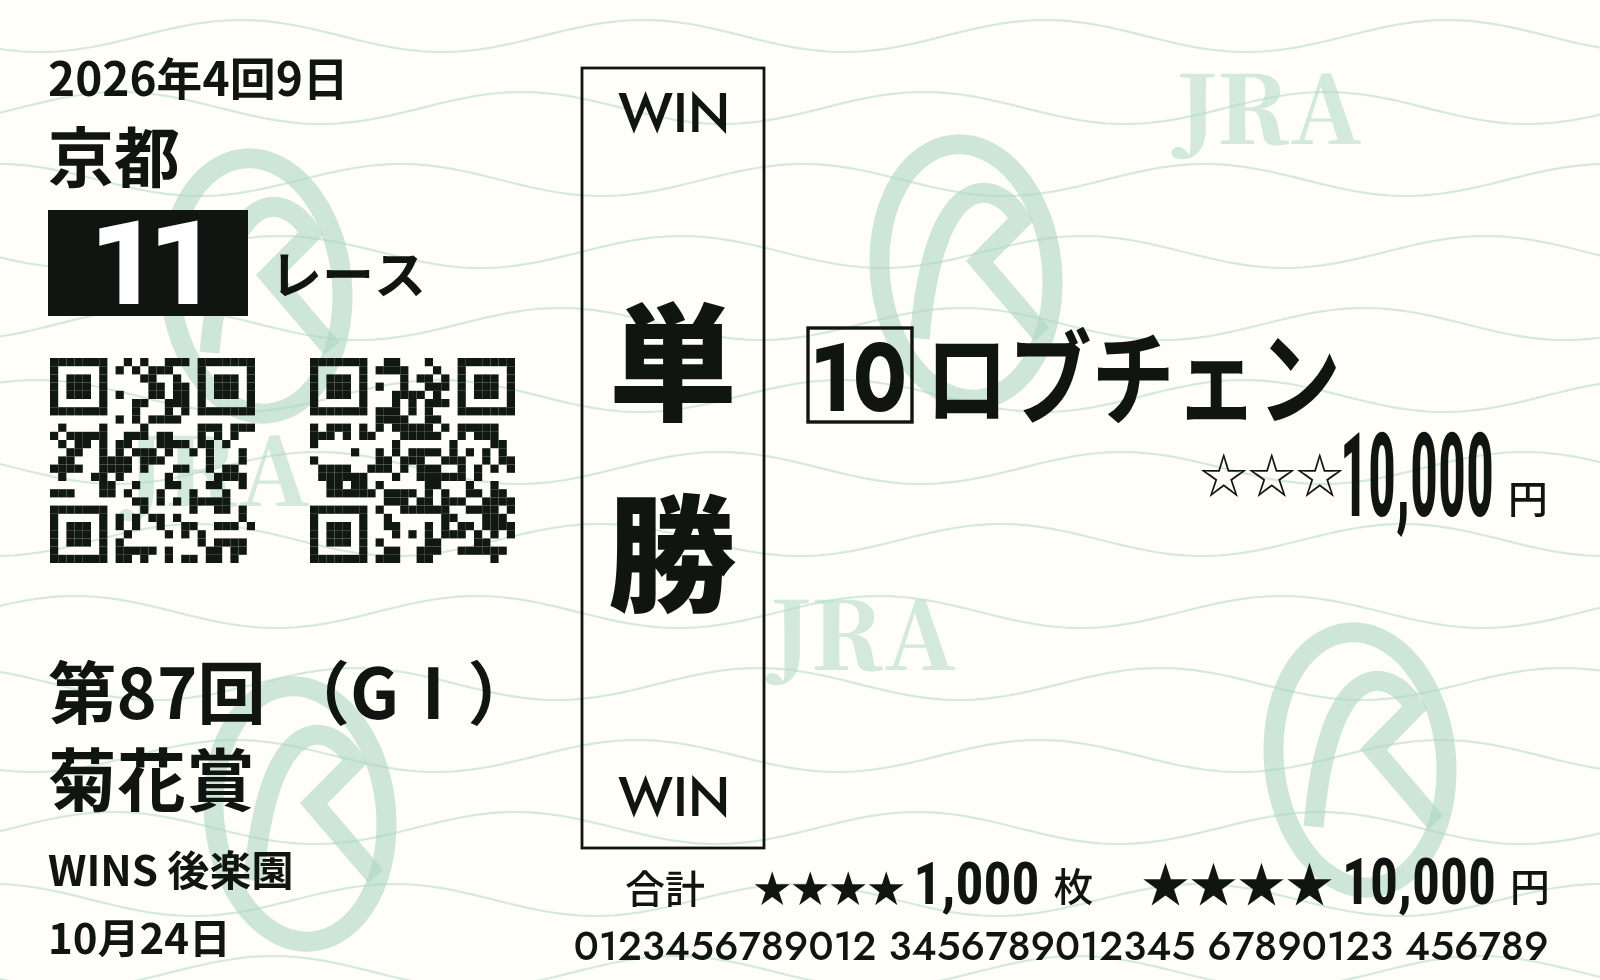
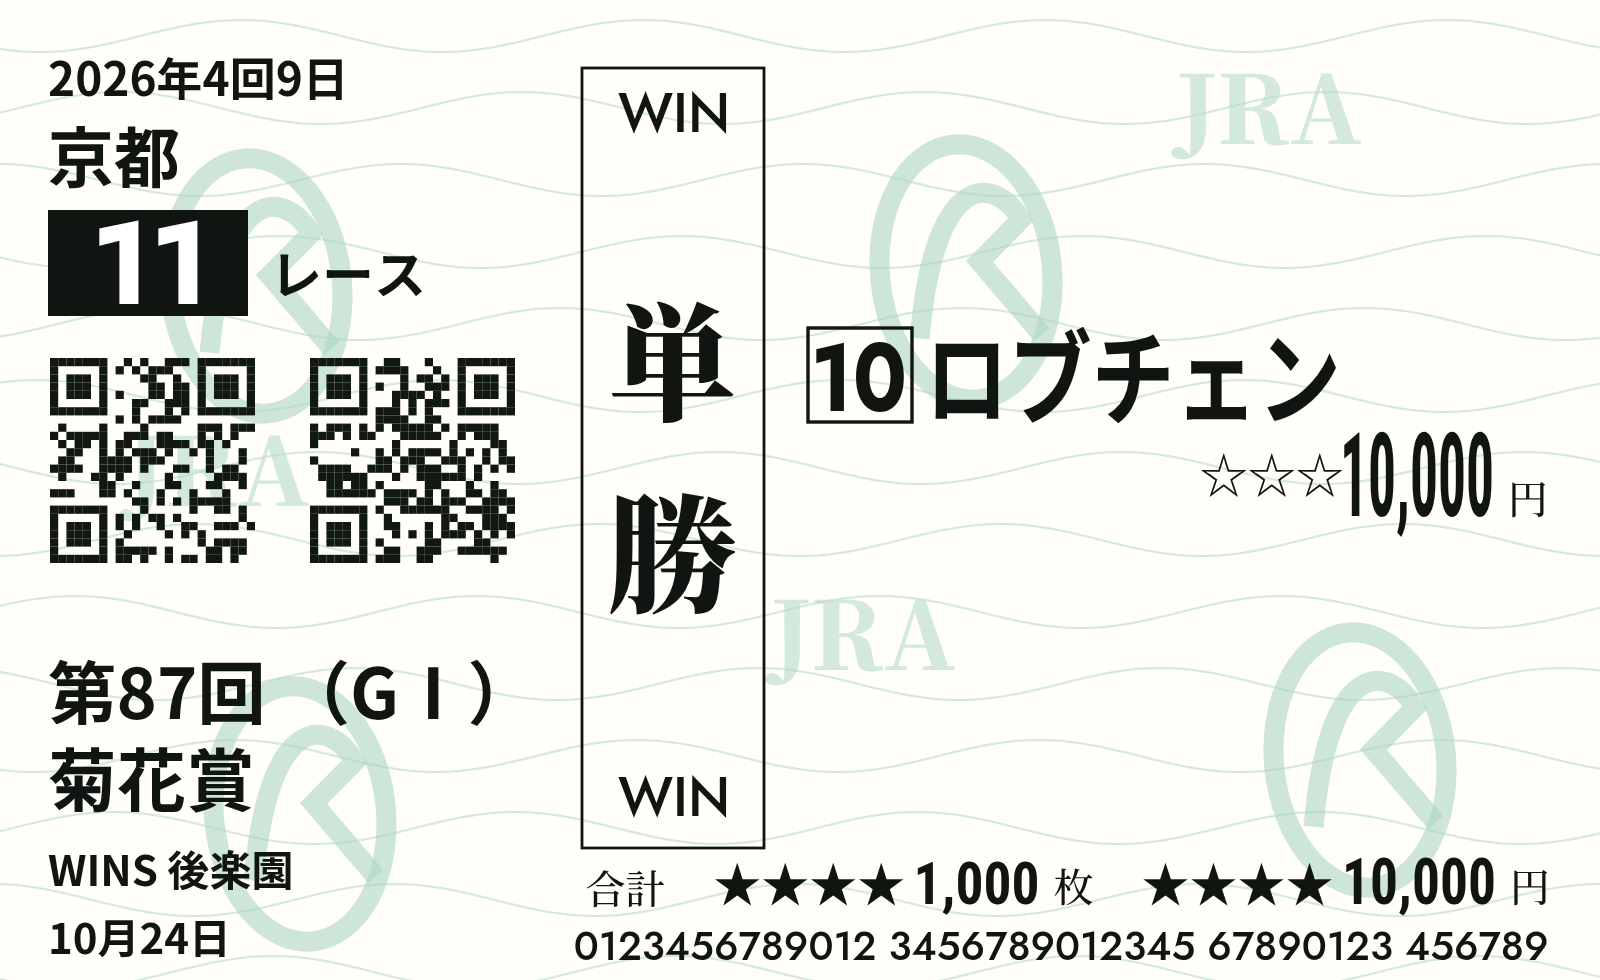
Use Serif ticket labels and equalize total star sizes

diff --git a/app.js b/app.js
@@ -96,10 +96,10 @@
   function money(amount,right,y,size=45,maxWidth=285,starCount=3,star='☆',label=null,each=false){
     ctx.save();const s=number(amount), yen=20, gap=7;
     const left=right-yen-gap-numericWidth(s);
-    const numberInkLeft=numericText(s,left,y,size);text('円',right-yen,y-1,20,'sans',500);
+    const numberInkLeft=numericText(s,left,y,size);text('円',right-yen,y-1,20,'serif',500);
     let starLeft=Math.max(right-maxWidth,left-(starCount===4?98:85));
     if(label){
-      text(label,521,y-2,23,'sans',500,61);setFont(23,'sans',500);
+      text(label,521,y-2,23,'serif',500,61);setFont(23,'serif',500);
       const labelRight=521+ctx.measureText(label).actualBoundingBoxRight;
       starLeft=labelRight+(starLeft-labelRight)/2;
     }
@@ -112,7 +112,7 @@
       const width=Math.min(starMaxWidth,m.actualBoundingBoxLeft+m.actualBoundingBoxRight);
       const centerX=label?starLeft+width/2:numberInkLeft-width/2;
       centeredText(stars,centerX,centerY,24,'number',500,width);
-      if(each)text('各',centerX-width/2-26,y,24,'sans',500,24);
+      if(each)text('各',centerX-width/2-26,y,24,'serif',500,24);
     }else{
       text(stars,starLeft,y-1,24,'number',500,starMaxWidth);
       setFont(24,'number',500);const m=ctx.measureText(stars);
@@ -128,13 +128,13 @@
       setFont(size,'money',700);const first=ctx.measureText(s[0]);
       const inkOffset=digitCell/2-(first.width/2+first.actualBoundingBoxLeft)*digitCell/ctx.measureText('0').width;
       setFont(starSize,'number',500);const stars=ctx.measureText('★★★★');
-      setFont(20,'sans',500);const unitRight=ctx.measureText(unit).actualBoundingBoxRight;
+      setFont(20,'serif',500);const unitRight=ctx.measureText(unit).actualBoundingBoxRight;
       return {s,unit,size,starSize,stars,inkOffset,starWidth:stars.actualBoundingBoxLeft+stars.actualBoundingBoxRight,
         fixedWidth:6-inkOffset+numericWidth(s)+7+unitRight};
     }
     ctx.save();
-    const count=group(total/10,'枚',30,19), amount=group(total,'円',32,24);
-    setFont(20,'sans',500);const label=ctx.measureText('合計');
+    const count=group(total/10,'枚',30,24), amount=group(total,'円',32,24);
+    setFont(20,'serif',500);const label=ctx.measureText('合計');
     const labelWidth=label.actualBoundingBoxLeft+label.actualBoundingBoxRight;
     let groupGap=amount.starWidth/4;
     const fixedWidth=labelWidth+count.fixedWidth+amount.fixedWidth;
@@ -143,14 +143,14 @@
     count.starWidth*=scale;amount.starWidth*=scale;groupGap*=scale;
     const width=fixedWidth+count.starWidth+amount.starWidth+2*groupGap;
     let x=right-width;
-    text('合計',x+label.actualBoundingBoxLeft,y,20,'sans',500);x+=labelWidth+groupGap;
+    text('合計',x+label.actualBoundingBoxLeft,y,20,'serif',500);x+=labelWidth+groupGap;
     for(const g of [count,amount]){
       ctx.save();setFont(g.starSize,'number',500);ctx.fillStyle='#101512';ctx.textBaseline='alphabetic';
       ctx.translate(x,y-1);ctx.scale(g.starWidth/(g.stars.actualBoundingBoxLeft+g.stars.actualBoundingBoxRight),1);
       ctx.fillText('★★★★',g.stars.actualBoundingBoxLeft,0);ctx.restore();
       const numberX=x+g.starWidth+6-g.inkOffset;
       numericText(g.s,numberX,y,g.size);
-      text(g.unit,numberX+numericWidth(g.s)+7,y-1,20,'sans',500);
+      text(g.unit,numberX+numericWidth(g.s)+7,y-1,20,'serif',500);
       x+=g.starWidth+g.fixedWidth+groupGap;
     }
     ctx.restore();
@@ -193,14 +193,14 @@
       for(let i=0;i<30;i++)if(i%2===0){blackBox(x+i*w/30,90,w/30,268);}
       blackBox(x,top,w,56);blackBox(x,358,w,66);
       for(const y of [48,373]){centeredText('PLACE',x+w/2,y+6,16,'number',600,w-8,'#fff');centeredText('SHOW',x+w/2,y+26,16,'number',600,w-8,'#fff');}
-      centeredText('複',x+w/2,182,60,'sans',900,72,'#111',true);centeredText('勝',x+w/2,274,60,'sans',900,72,'#111',true);
+      centeredText('複',x+w/2,182,60,'serif',900,72,'#111',true);centeredText('勝',x+w/2,274,60,'serif',900,72,'#111',true);
     }else if(type==='cheer'){
       centeredText('WIN',x+w/2,57,27,'number',500,w-12);
-      for(const [s,y] of [['単',112],['勝',169],['＋',223],['複',277],['勝',334]])centeredText(s,x+w/2,y,s==='＋'?35:48,'sans',900,75);
+      for(const [s,y] of [['単',112],['勝',169],['＋',223],['複',277],['勝',334]])centeredText(s,x+w/2,y,s==='＋'?35:48,'serif',900,75);
       blackBox(x,358,w,66);centeredText('PLACE',x+w/2,379,16,'number',600,w-8,'#fff');centeredText('SHOW',x+w/2,405,16,'number',600,w-8,'#fff');
     }else{
       centeredText('WIN',x+w/2,57,27,'number',500,w-12);
-      centeredText('単',x+w/2,181,64,'sans',900,78);centeredText('勝',x+w/2,277,64,'sans',900,78);
+      centeredText('単',x+w/2,181,64,'serif',900,78);centeredText('勝',x+w/2,277,64,'serif',900,78);
       centeredText('WIN',x+w/2,399,27,'number',500,w-12);
     }
     rect(x,top,w,bottom-top,1.4);
@@ -269,5 +269,5 @@
     finally{URL.revokeObjectURL(url);if(request===imageRequest){imageLoading=false;validate();}}
   });
   validate();
-  Promise.all([document.fonts.load('700 32px "Jost"'),document.fonts.load('700 32px "Roboto Condensed"'),document.fonts.load('400 32px "Dela Gothic One"'),document.fonts.load('700 32px "Noto Sans JP"'),document.fonts.load('900 32px "Noto Serif JP"')]).then(()=>{ready=true;validate();}).catch(()=>{$('preview-status').textContent='フォントを読み込めませんでした。再読み込みしてください。';});
+  Promise.all([document.fonts.load('700 32px "Jost"'),document.fonts.load('700 32px "Roboto Condensed"'),document.fonts.load('400 32px "Dela Gothic One"'),document.fonts.load('700 32px "Noto Sans JP"'),document.fonts.load('500 24px "Noto Serif JP"'),document.fonts.load('900 32px "Noto Serif JP"')]).then(()=>{ready=true;validate();}).catch(()=>{$('preview-status').textContent='フォントを読み込めませんでした。再読み込みしてください。';});
 })();

diff --git a/fonts/LICENSES.html b/fonts/LICENSES.html
@@ -1,4 +1,4 @@
-<!doctype html><html lang="ja"><meta charset="utf-8"><title>フォント・ライセンス</title><style>body{font-family:sans-serif;max-width:850px;margin:50px auto;padding:20px;color:#243e30}pre{white-space:pre-wrap;font-size:12px;line-height:1.7}h2{margin-top:50px}a{color:#176948}</style><a href="../">← エディターへ</a><h1>フォント・ライセンス</h1><p>次のフォントをサイト内に同梱しています。いずれも SIL Open Font License 1.1 に従って利用・再配布しています。</p><p>WOFF2形式に変換しています。Dela Gothic Oneは「がんばれ！」用の「Baken DelaGothicOne」、Noto Serif JPはJRA透かし印字用の「Baken NotoSerifJP」として改名・サブセット化しています。原書体の著作権表示とライセンス全文を以下に記載します。</p><h2>Jost</h2><pre>Copyright 2020 The Jost Project Authors (https://github.com/indestructible-type)
+<!doctype html><html lang="ja"><meta charset="utf-8"><title>フォント・ライセンス</title><style>body{font-family:sans-serif;max-width:850px;margin:50px auto;padding:20px;color:#243e30}pre{white-space:pre-wrap;font-size:12px;line-height:1.7}h2{margin-top:50px}a{color:#176948}</style><a href="../">← エディターへ</a><h1>フォント・ライセンス</h1><p>次のフォントをサイト内に同梱しています。いずれも SIL Open Font License 1.1 に従って利用・再配布しています。</p><p>WOFF／WOFF2形式に変換しています。Dela Gothic Oneは「がんばれ！」用の「Baken DelaGothicOne」、Noto Serif JPは券種・単位・合計などの印字とJRA透かし用の「Baken NotoSerifJP」として改名・サブセット化しています。原書体の著作権表示とライセンス全文を以下に記載します。</p><h2>Jost</h2><pre>Copyright 2020 The Jost Project Authors (https://github.com/indestructible-type)
 
 This Font Software is licensed under the SIL Open Font License, Version 1.1.
 This license is copied below, and is also available with a FAQ at:

diff --git a/style.css b/style.css
@@ -2,7 +2,7 @@
 @font-face{font-family:Roboto Condensed;src:url('./fonts/RobotoCondensed.woff2') format('woff2');font-weight:100 900}
 @font-face{font-family:Dela Gothic One;src:url('./fonts/DelaGothicOne.woff2');font-weight:400}
 @font-face{font-family:Noto Sans JP;src:url('./fonts/NotoSansJP.woff2') format('woff2');font-weight:100 900}
-@font-face{font-family:Noto Serif JP;src:url('./fonts/NotoSerifJP.woff2') format('woff2');font-weight:900}
+@font-face{font-family:Noto Serif JP;src:url('./fonts/NotoSerifJP.woff') format('woff');font-weight:200 900}
 
 :root{font-family:'Noto Sans JP',sans-serif;color:#223b31;background:#f6f8f6;font-synthesis:none;--green:#176948;--border:#dfe6e1}
 *{box-sizing:border-box}

diff --git a/docs/VERIFICATION.md b/docs/VERIFICATION.md
@@ -114,3 +114,10 @@
 - 中央帯の単勝・複勝をNoto Sans JP 900のゴシック体に変更。小計ラベルの単勝・複勝、各、円、合計、枚もNoto Sans JPに統一。
 - PLACE/SHOWは同じJost 600・16pxで、横幅の拡大縮小はかかっていないことを確認し、自然な文字幅を維持。
 - Chromiumで3券種・100円・10,000円・999,900円の書体・ベースライン・英字の横倍率・白抜き星の中央揃えと金額への接触を確認しPNG保存。
+
+## 指定文字をセリフ体へ・黒星サイズの統一（2026-10-20）
+
+- 単勝・複勝・各・円・合計・枚をNoto Serif JPのセリフ体に変更。中央帯は900、ラベル・単位は500を使用し、それ以外の書体と配置は維持。
+- 同梱Noto Serif JPを必要文字付きの可変ウェイトサブセットに更新。必要文字の収録と500・900の読み込みを確認し、両ウェイトの完了まで保存を停止。ライセンスの用途説明も更新。
+- 枚数側の黒星は19px、累計金額側は24pxだったため、両方を24pxへ統一。最大額での横幅調整も両方に同じ倍率を適用。
+- Chromiumで3券種・100円・10,000円・999,900円について、指定文字のセリフ体、黒星2組の書体・幅・高さ・上下位置の一致、各のベースライン、白抜き星の中央揃えと金額との接触を確認しPNG保存。
